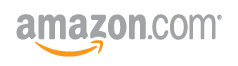
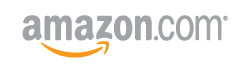
work

Changed region(s): [[0.0588, 0.2121, 0.9706, 0.8788]]

diff --git a/about.html b/about.html
@@ -76,12 +76,12 @@
                         <div>
                         Click on one of the following icons to read about us in the news!
                         </div>
-                        <a target="_blank"href="http://online.wsj.com/article/PR-CO-20130528-907719.html"><img src="assets/img/wallstreet.png"></a>
-                        <a target="_blank"href="http://pandodaily.com/2013/05/28/star-farm-ventures-launches-in-new-york-to-import-israeli-innovation/"><img src="assets/img/pandodaily.png"></a>
-                        <a target="_blank"href="http://www.haaretz.com/weekend/week-s-end/.premium-1.531228"><img src="assets/img/haaretz.png"></a>
-                        <a target="_blank"href="http://www.haaretz.com/weekend/week-s-end/.premium-1.531228"><img src="assets/img/themarker.png"></a>
-                        <a target="_blank"href="http://aws.amazon.com"><img src="assets/img/thesacramentobee.png"></a>
-                        <a target="_blank"href="http://everything-pr.com/5wpr-star-farm-ventures-and-the-start-up-nation/242789/#.UhdXS2TWyT8"><img src="assets/img/everythingpr.png"></a>
+                        <a target="_blank"href="http://online.wsj.com/article/PR-CO-20130528-907719.html"><img src="assets/img/wallstreet.png"/></a>
+                        <a target="_blank"href="http://pandodaily.com/2013/05/28/star-farm-ventures-launches-in-new-york-to-import-israeli-innovation/"><img src="assets/img/pandodaily.png"/></a>
+                        <a target="_blank"href="http://www.haaretz.com/weekend/week-s-end/.premium-1.531228"><img src="assets/img/haaretz.png"/></a>
+                        <a target="_blank"href="http://www.haaretz.com/weekend/week-s-end/.premium-1.531228"><img src="assets/img/themarker.png"/></a>
+                        <a target="_blank"href="http://aws.amazon.com"><img src="assets/img/thesacramentobee.png"/></a>
+                        <a target="_blank"href="http://everything-pr.com/5wpr-star-farm-ventures-and-the-start-up-nation/242789/#.UhdXS2TWyT8"><img src="assets/img/everythingpr.png"/></a>
                     </div>
                 </div>
                 <div class="span4">
@@ -92,7 +92,7 @@
                     <div class="about_content text_center">
                         To be a part of our sponsors, please email us at info@starfarmventures.com
 
-                        <a target="_blank" class="amazon_img" href="http://aws.amazon.com"></a>
+                        <a target="_blank" href="http://aws.amazon.com"><img src="assets/img/amazon.png"/></a>
                     </div>
                 </div>
             </div>
